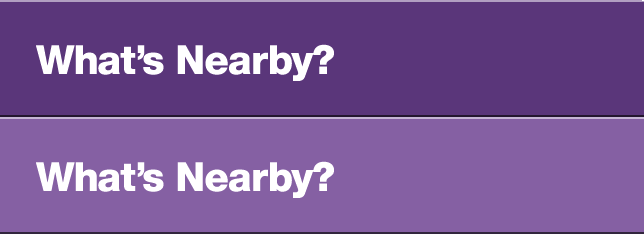
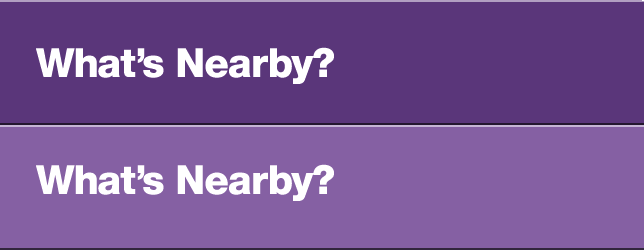
update to images and links to more functionality

Changed region(s): [[0.0311, 0.6581, 0.528, 0.8376], [0.2795, 0.2094, 0.528, 0.359], [0.0621, 0.2094, 0.2484, 0.3291]]

diff --git a/Resources/localwebcache/index.css b/Resources/localwebcache/index.css
@@ -37,33 +37,37 @@ li.pressed {
 }
 
 li#nearby {
-	height: 117px;
+	height: 125px;
 	background: url(button_nearby.png)  0 0 no-repeat;
 }
 
 li#nearby div.overlay{
   top: 215px;
-  height: 117px;
+  height: 125px;
 }
 
 li#destination {
-	height: 232px;
+	height: 168px;
 	background: url(button_destination.png)  0 0 no-repeat;
 }
 
 li#destination div.overlay{
-  top: 332px;
-  height: 232px;
+  top: 341px;
+  height: 167px;
 }
 
 li#rate {
-	height: 118px;
+	height: 126px;
 	background: url(button_rate.png)  0 0 no-repeat;	
 }
 
 li#rate div.overlay{
-  top: 565px;
-  height: 118px;
+  top: 510px;
+  height: 120px;
+}
+
+ul.horizontal {
+  margin-top: 25px;
 }
 
 ul.horizontal, ul.horizontal li {
@@ -71,40 +75,44 @@ ul.horizontal, ul.horizontal li {
 }
 
 ul.horizontal li {
-	float: left;	
+	float: left;
+  height: 250px;
 }	
 
-li#non-mobile {
+li#history {
 	width: 211px;
-	background: url(button_non-mobile.png)  0 0 no-repeat;	
-}
-
-li#non-mobile.pressed {
-	background: url(button_non-mobile_press.png)  0 0 no-repeat;
+	background: url(button_history.png)  0 0 no-repeat;
 }
 
 li#passport {
 	width: 220px;
-	background: url(button_passport.png)  0 0 no-repeat;	
+	background: url(button_passport.png)  0 0 no-repeat;
 }
 
-li#passport.pressed {
-	background: url(button_passport_press.png)  0 0 no-repeat;
-}
-
-li#feedback {
+li#bookmarks {
 	width: 211px;
-	background: url(button_feedback.png)  0 0 no-repeat;	
+	background: url(button_bookmarks.png)  0 0 no-repeat;	
 }
 
-li#feedback.pressed {
-	background: url(button_feedback_press.png)  0 0 no-repeat;
+li#bookmarks.pressed {
+  background-position: 0 205%, 100% 50% !important
 }
+
+li#info {
+  z-index: 100;
+  width: 212px;;
+  height: 85 !important;
+  top: 824px;
+  left: 430px;
+	position:absolute;
+	background: url(button_info.png)  0 0 no-repeat;
+}
+
 
 div#curve {
 	position:absolute;
 	left:0px;
-	top:682px;
+	top:630px;
 	width: 642px;
 	height: 85px;
 	background: url(curve.png)  0 0 no-repeat;	

diff --git a/Resources/localwebcache/index_developer.html b/Resources/localwebcache/index_developer.html
@@ -22,9 +22,10 @@
 				<li id="rate"><a href="http://localhost:3000/mobile/rate"></a></li>
 			</ul>
 			<ul class="horizontal">
-				<li id="non-mobile"><a href="http://localhost:3000/?mobile=false"></a></li>
-				<li id="passport"><a href="http://localhost:3000/mobile/stamps" rel="external"></a></li>
-				<li id="feedback"><a href="mailto://info@trekaroo.com?subject=Mobile Site Feedback"></a></li>				
+				<li id="history"><a href="http://localhost:3000/mobile/recents"></a></li>
+				<li id="passport"><a href="http://localhost:3000/mobile/stamps"></a></li>
+				<li id="bookmarks"><a href="http://localhost:3000/mobile/bookmarks"></a></li>
+				<li id="info" style='height: 85px;'><a href="http://localhost:3000/mobile/home_page/about"></a> </li>
 			</ul>
 		</div>
 		<div id='curve'></div>

diff --git a/Resources/localwebcache/index.js b/Resources/localwebcache/index.js
@@ -19,13 +19,9 @@ $().ready( function(){
 		window.location = loc;
 	});
 		  
-	$("li#non-mobile, li#feedback").click( function(e){
-        if(clicked) return;
-        clicked = true;
-		if( isIOSMobileApp() ){
-			e.preventDefault();
-			iosSendCommand("gotoExternalUrl", escape($(this).find('a').attr('href')));
-			return false;
-		}
-	});
+  $("li#info, a.info").click(function(e){
+      e.preventDefault();
+      iosSendCommand("showFlipside");
+      return false;
+  });
 });
